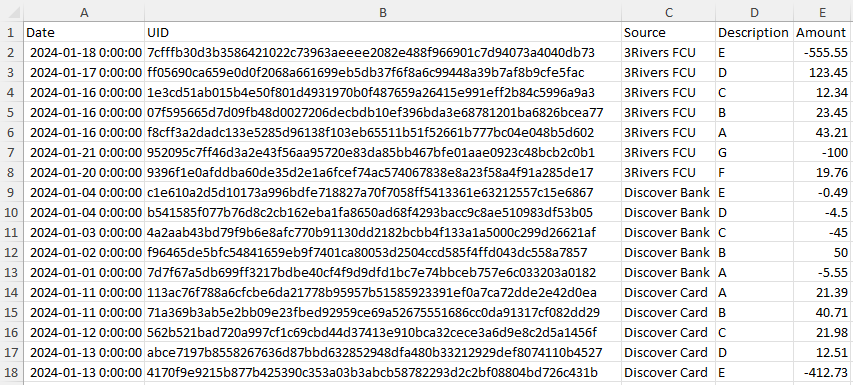
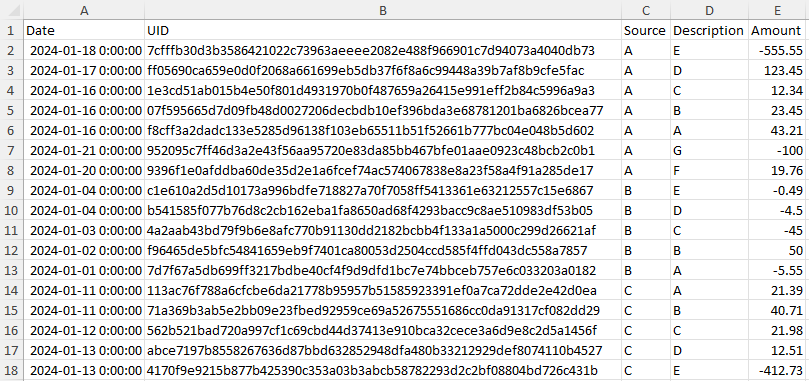
Renamed examples

diff --git a/README.md b/README.md
@@ -42,10 +42,10 @@ Below is an example of four inputs and the corresponding merged output. Notice t
 
 #### Inputs
 
-![3Rivers FCU](/images/3rivers-fcu.png)
-![3Rivers FCU (duplicates)](/images/3rivers-fcu-duplicates.png)
-![Discover Bank](/images/discover-bank.png)
-![Discover Card](/images/discover-card.png)
+![A](/images/a.png)
+![A (duplicates)](/images/a-duplicates.png)
+![B](/images/b.png)
+![C](/images/c.png)
 
 #### Output
 
